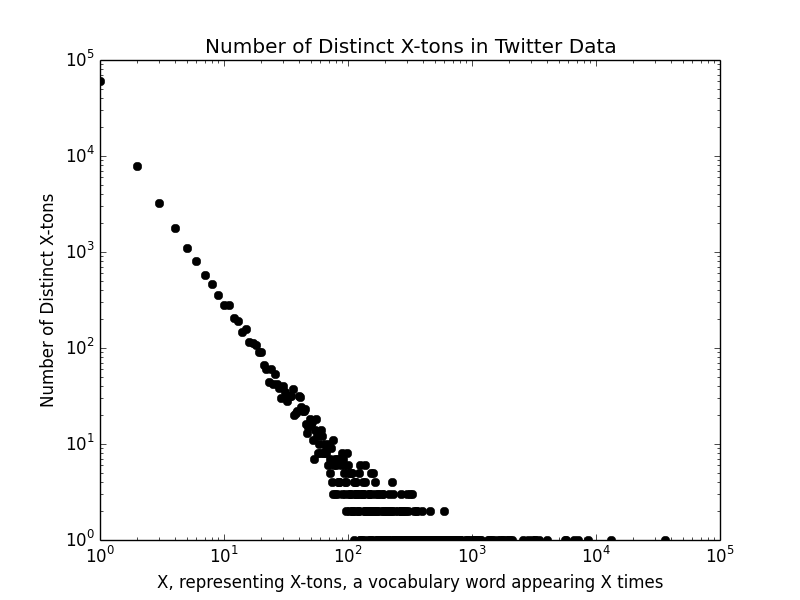
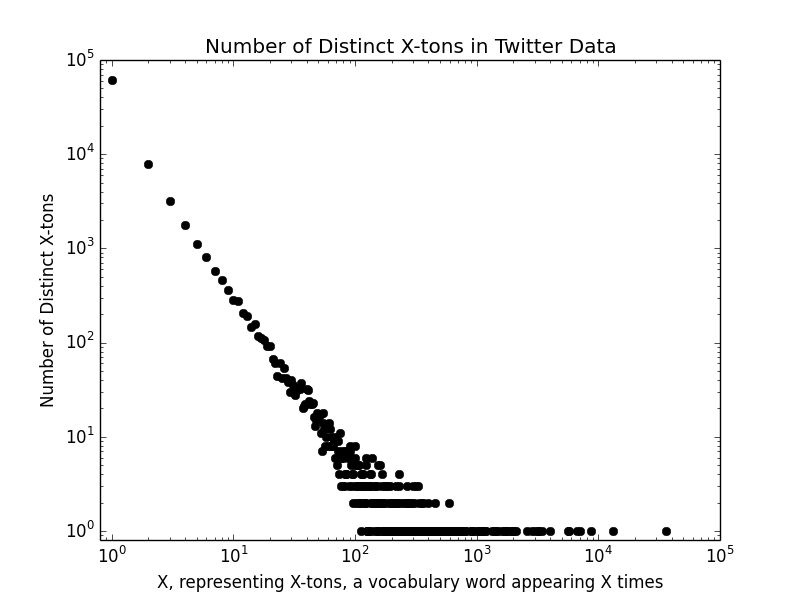
Moved plot away from axis.

diff --git a/summer/graphs/sparsity.py b/summer/graphs/sparsity.py
@@ -14,6 +14,8 @@ plt.xlabel("Vocabulary Word")
 plt.title("Frequency of Vocabulary Words in Twitter Data")
 plt.xscale('log')
 plt.yscale('log')
+plt.xlim(xmin=0.8)
+plt.ylim(ymin=0.8)
 plt.show()
 
 tons = {}
@@ -33,4 +35,6 @@ plt.xlabel("X, representing X-tons, a vocabulary word appearing X times")
 plt.title("Number of Distinct X-tons in Twitter Data")
 plt.xscale('log')
 plt.yscale('log')
+plt.xlim(xmin=0.8)
+plt.ylim(ymin=0.8)
 plt.show()
